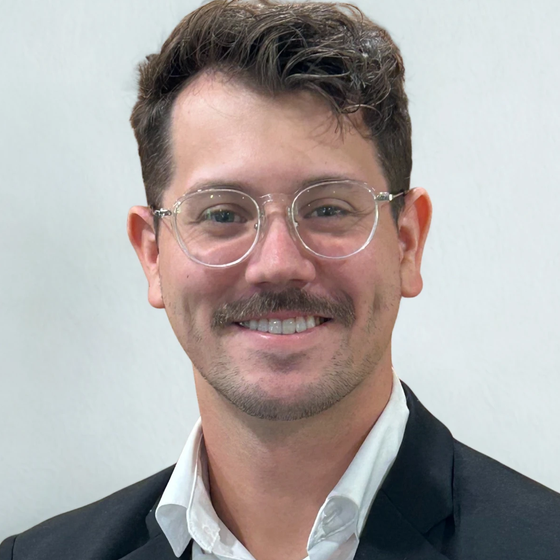
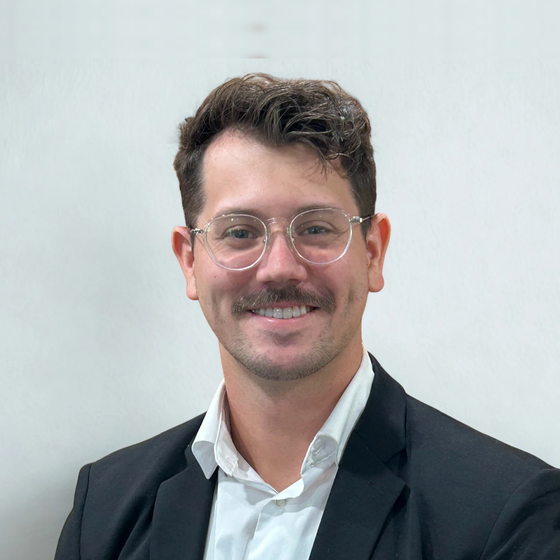
Reframe Matthew Knowles headshot to match the other four discs

diff --git a/index.html b/index.html
@@ -387,11 +387,10 @@
   .person__disc--masked img { transform: scale(1.045); }
   /* zoom must stay >= 1 + 2*|lift| or a crescent shows at the bottom of the disc */
   .person__disc--tucker img { transform: scale(1.22) translateY(-7.7%); }
-  /* Landscape source: cover fits it to the disc HEIGHT and crops the sides, so
-     there is no vertical overflow and object-position cannot move it. The crown
-     sat on the top edge and the circle mask cut it. Scale up to create that room,
-     then shift down. Keep zoom >= 1 + 2*|shift| or a gap opens. */
-  .person__disc--knowles img { transform: scale(1.18) translateY(6.5%); }
+  /* Matthew carries NO transform: his source is cropped square at build time from the
+     2000x1600 original to head = 51% of the frame and eyeline = 42%, which is what
+     Russell and Davis measure. A CSS zoom on top of that is what made him read as
+     leaning out of the disc. Reframe the source, never fight it with scale(). */
   /* The monogram is pinned to the light-theme teal ramp in BOTH themes: white on the
      dark-theme --teal (#3AA6C0) measures 2.6:1 and fails even the large-text floor,
      where white on #0C6980 measures 6.27:1. */
@@ -748,7 +747,7 @@
           <p>Chief Operating Officer</p>
         </article>
         <article class="person">
-          <div class="person__disc person__disc--knowles"><div class="person__mono">MK</div><img src="assets/team-knowles.png" alt="Matthew Knowles" width="190" height="190" loading="lazy" decoding="async" onerror="this.remove()"></div>
+          <div class="person__disc"><div class="person__mono">MK</div><img src="assets/team-knowles.png" alt="Matthew Knowles" width="190" height="190" loading="lazy" decoding="async" onerror="this.remove()"></div>
           <span class="person__rule"></span>
           <h3>Matthew Knowles</h3>
           <p>Financial Analyst</p>
